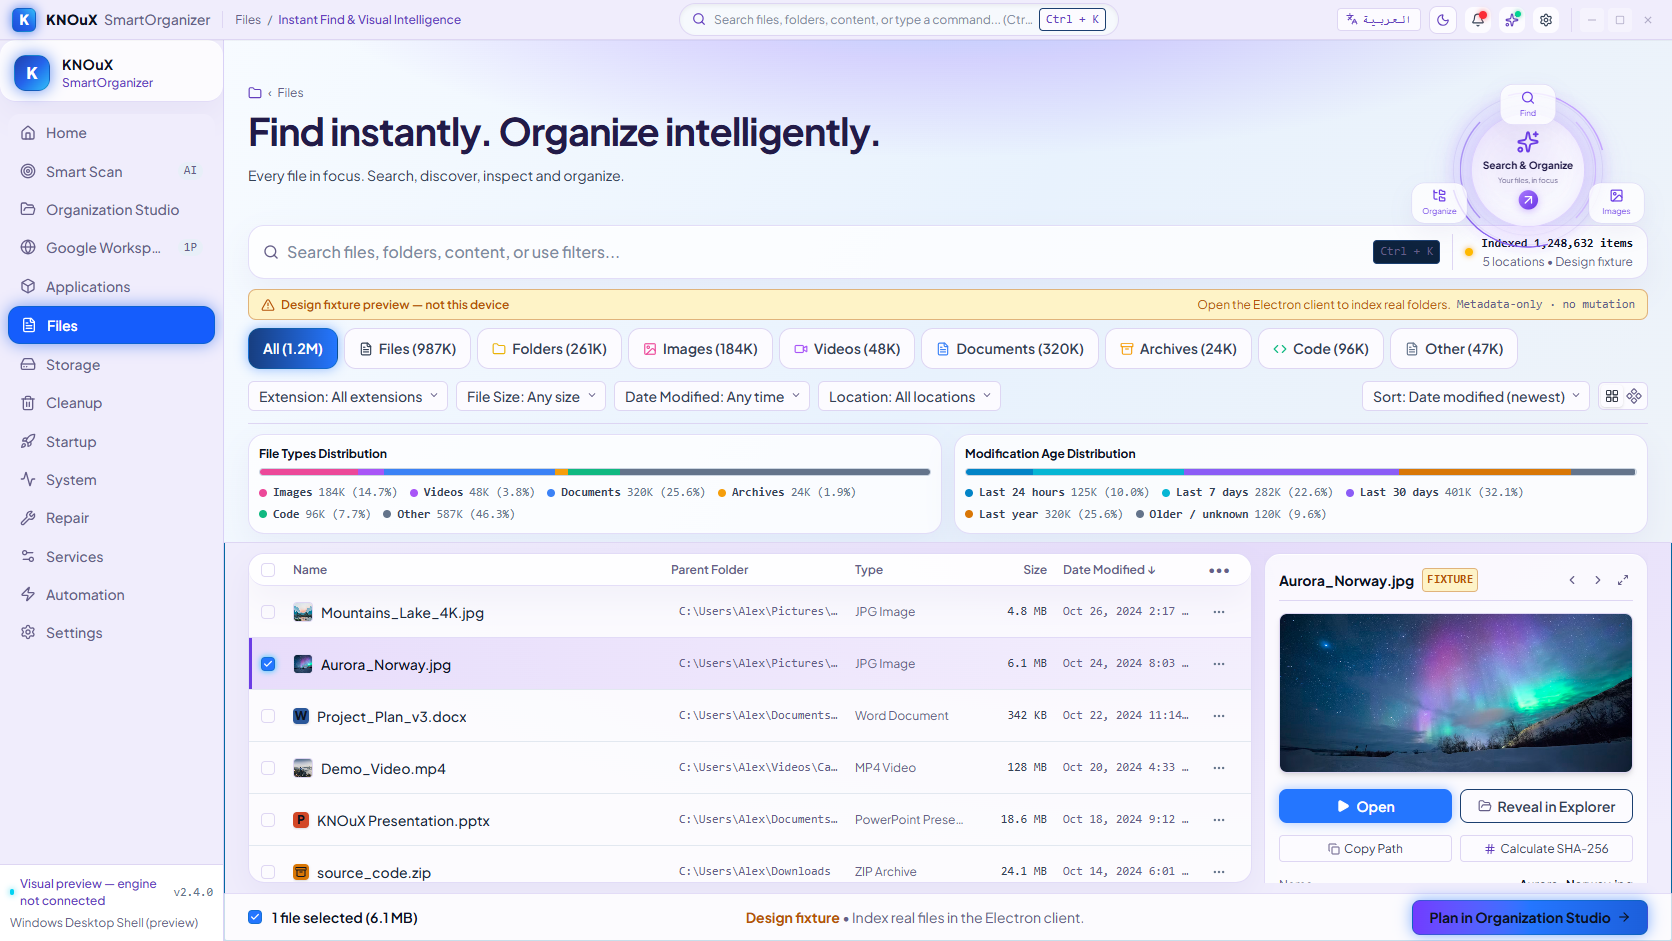
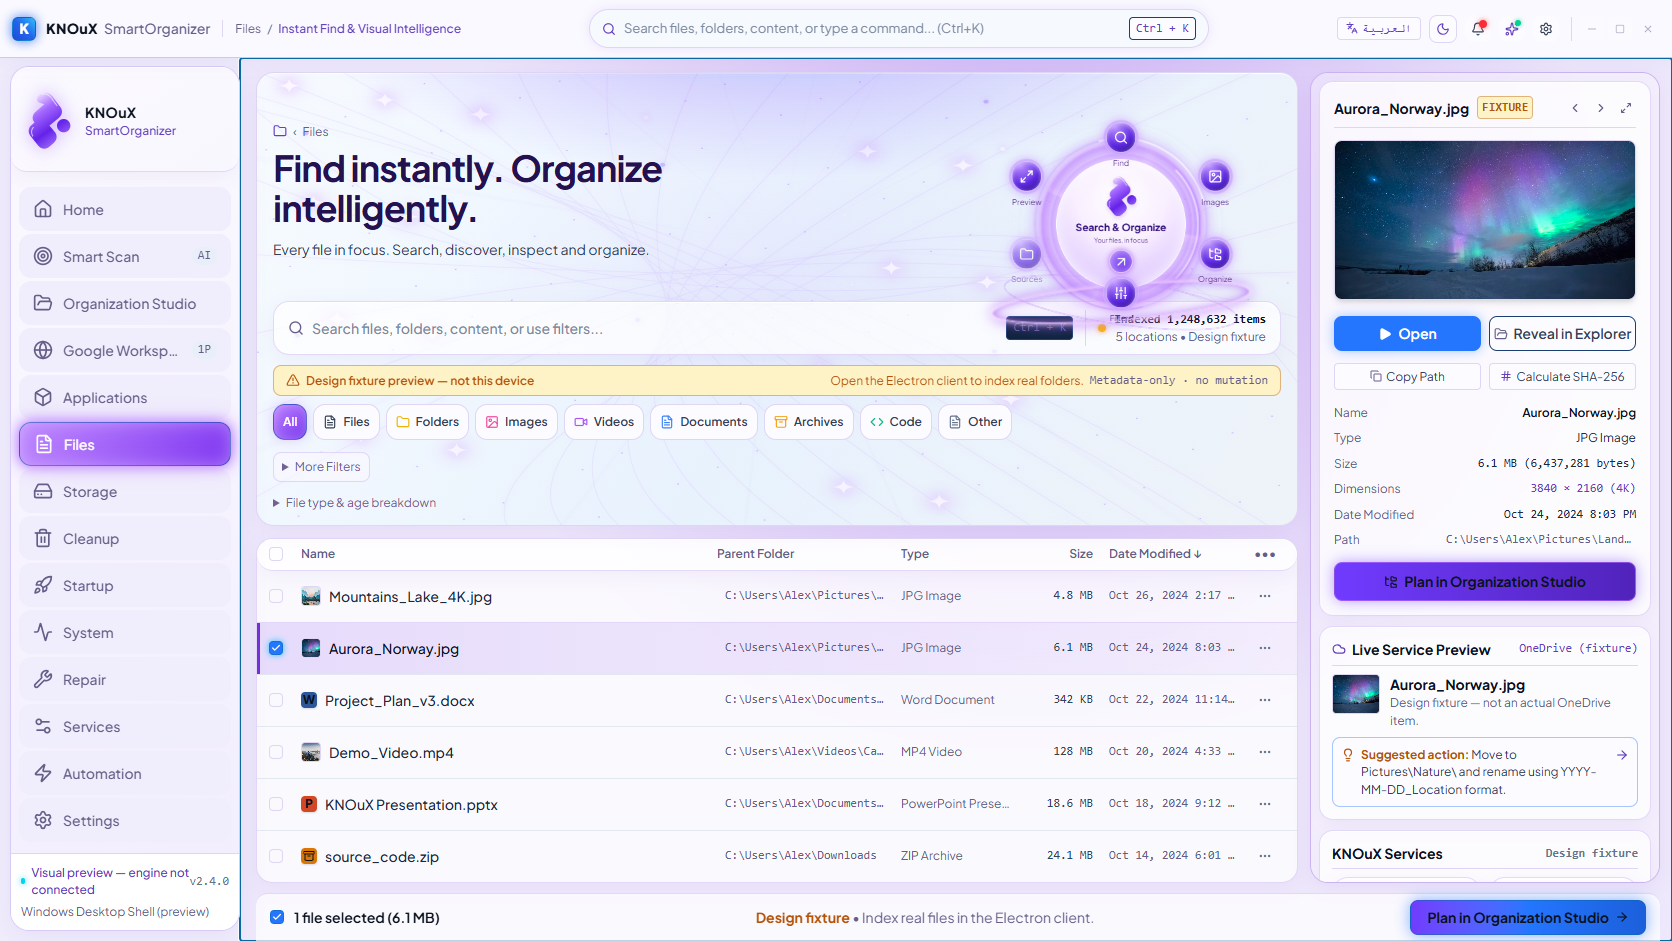
feat(visual): match files composition with luminous controls and pinned inspector

diff --git a/apps/gemini-ui/src/visual/reference-controls.css b/apps/gemini-ui/src/visual/reference-controls.css
@@ -1,0 +1,39 @@
+/* Shared dimensional controls, built from actual buttons and procedural light. */
+.visual-sprint[data-reference-shell='true'] {
+  --v-bg:#20175c; --v-panel:rgba(57,43,126,.65); --v-panel-soft:rgba(82,61,157,.35);
+  --v-line:#b79bea77; --v-ink:#fbf7ff; --v-muted:#d2c9ef; --v-accent:#d4b0ff;
+  --v-shadow:inset 0 1px 1px #ffffff35,inset 0 0 16px #b287ff12,0 5px 18px #16072b55,0 0 14px #b67aff25;
+}
+html[data-theme='light'] .visual-sprint[data-reference-shell='true'] { --v-bg:#eee8fc; --v-panel:#ffffffb8; --v-panel-soft:#faf6ff99; --v-line:#cdbcf38c; --v-ink:#24114f; --v-muted:#726293; --v-accent:#7131d8; --v-shadow:inset 0 1px #fff,0 5px 20px #8b69bd16; }
+.visual-sprint[data-reference-shell='true'] .knoux-titlebar { min-height:58px; background:linear-gradient(110deg,#28206fdd,#31207fbb) !important; border-color:#bd8eff66 !important; box-shadow:0 1px 12px #d4a8ff44; }
+.visual-sprint[data-reference-shell='true'] .knoux-titlebar > div:nth-child(2) { width:min(42vw,620px); min-height:39px; border-color:#b89be9aa; background:#7050c044; box-shadow:inset 0 0 12px #fff1,0 0 12px #a575e52b; }
+.visual-sprint[data-reference-shell='true'] .knoux-titlebar input { font-size:13px; }
+.visual-sprint[data-reference-shell='true'] aside[class*='w-56'] { width:230px; margin:8px 0 10px 10px; height:auto; border:1px solid #cda6ffbb !important; border-radius:19px; background:linear-gradient(135deg,#6a4ed077,#372b87b0) !important; box-shadow:inset 0 0 18px #b68aff22,0 0 14px #bd88ff77; backdrop-filter:blur(15px); }
+.visual-sprint[data-reference-shell='true'] aside nav button { min-height:44px; color:#f0eaff; font-weight:500; margin-block:3px; padding-inline:14px; }
+.visual-sprint[data-reference-shell='true'] aside nav button > svg { width:20px; height:20px; color:#f1eaff; }
+.visual-sprint[data-reference-shell='true'] aside nav button[aria-current='page'] { border:1px solid #efd4ff; background:linear-gradient(120deg,#bd86ff,#8138f1) !important; box-shadow:inset 0 0 15px #fff5,0 0 13px #b16aff,0 0 22px #c38dff66; }
+.visual-sprint[data-reference-shell='true'] aside > div > div:first-child { min-height:105px; background:transparent !important; border-color:#c6a1ff55; }
+.visual-sprint[data-reference-shell='true'] .knx-shell-lettermark { display:none; }.visual-sprint[data-reference-shell='true'] .knx-shell-ribbonmark { display:block; width:49px; height:64px; filter:drop-shadow(0 0 9px #b580ff99); }
+.visual-sprint[data-reference-shell='true'] .knx-sidebar-brand-emblem { background:transparent !important; border:0; box-shadow:none; width:48px; height:65px; }
+.visual-sprint .knx-orbit { width:360px; height:270px; }
+.visual-sprint .knx-orbit-track { width:226px; height:226px; left:67px; top:15px; border:2px solid #debdff; box-shadow:0 0 10px #efceff88,0 0 22px #b578ff99,inset 0 0 25px #b773ff; background:conic-gradient(from 18deg,#d3a4ff16,#fff5ff77 5deg,#9b54f714 12deg,#9955ff55 80deg,#f9e1ff 82deg,#8b48f422 88deg,#b779ff33 180deg,#fff0ff99 181deg,#a364fa22 185deg,#b97fff44 275deg,#fff5ff 277deg,#b77dff22 282deg); }
+.visual-sprint .knx-orbit-track::after { inset:-9px; border-color:#c69bff66; border-top-color:#fff; border-bottom-color:#d1a2fa; box-shadow:0 0 12px #b674ff44; }
+.visual-sprint .knx-orbit-track-inner { width:201px; height:201px; left:79.5px; top:27.5px; background:none; opacity:.8; }
+.visual-sprint .knx-orbit-core { left:90px; top:38px; width:180px; height:180px; z-index:3; background:radial-gradient(circle at 50% 30%,#fff 0,#f9efff 40%,#dfc8ff 77%,#a570e9 100%) !important; box-shadow:inset 0 0 22px #fff,0 0 22px #fff7ff88,0 0 42px #c78bff99; border-color:#fff; color:#32117c !important; gap:3px; transform:translateZ(0); }
+.visual-sprint .knx-orbit-core > svg { width:47px; height:60px; color:#793ce5; filter:drop-shadow(0 3px 3px #a87bc555); }
+.visual-sprint .knx-orbit-core { backface-visibility:hidden; will-change:transform; }.visual-sprint .knx-orbit-core > * { position:relative; transform:translateZ(0); }
+.visual-sprint .knx-orbit-core strong { font-size:14px; max-width:160px; }
+.visual-sprint .knx-orbit-core > span:not(.knx-orbit-arrow) { color:#6a4599; font-size:9px; }
+.visual-sprint .knx-orbit-arrow { width:32px; height:32px; margin-top:4px; border:1px solid #f0caff; box-shadow:inset 0 0 8px #fff6,0 0 9px #a159ef; }
+.visual-sprint .knx-orbit-tool { left:calc(50% + 151px * cos((var(--orbit-index) * 360deg / var(--orbit-count)) - 90deg)); top:calc(47% + 108px * sin((var(--orbit-index) * 360deg / var(--orbit-count)) - 90deg)); width:84px; min-height:72px; gap:6px; border:0; border-radius:0; background:transparent !important; box-shadow:none; color:var(--v-ink) !important; z-index:4; }
+.visual-sprint .knx-orbit-tool-icon { display:grid; place-items:center; width:42px; height:42px; border-radius:50%; border:1px solid #d4afff; color:#fff; background:radial-gradient(circle at 30% 15%,#b88cff,#5a24df 58%,#2d1779); box-shadow:inset 0 2px 6px #fff7ff88,0 0 0 3px #ae7eff44,0 0 0 4px #d9bdff88,0 0 18px #bc7aff; }
+.visual-sprint .knx-orbit-tool-icon > svg { filter:drop-shadow(0 0 3px #fff4); }.visual-sprint .knx-orbit-tool > span:last-child { font-size:11px; text-shadow:0 1px 3px #1f075b; }
+.visual-sprint .knx-orbit-tool.is-active { border:0; box-shadow:none; }.visual-sprint .knx-orbit-tool.is-active .knx-orbit-tool-icon { box-shadow:inset 0 2px 6px #fff7ff88,0 0 0 3px #ae7eff44,0 0 0 4px #fff,0 0 22px #ddafff; }
+.visual-sprint .knx-orbit-floor { position:absolute; left:0; right:0; bottom:8px; height:50px; border:2px solid #e8bfff; border-radius:50%; transform:rotate(-5deg); box-shadow:0 0 7px #fff,0 0 20px #b366f9,inset 0 0 14px #b779f8; background:radial-gradient(ellipse,#dca6ff44,transparent 65%); }
+.visual-sprint .knx-orbit-floor::before { content:''; position:absolute; inset:-8px 14px; border:1px solid #c393ff99; border-radius:50%; transform:rotate(13deg); }
+.visual-sprint .knx-orbit button:disabled { opacity:.65; }.visual-sprint .knx-orbit.is-running .knx-orbit-track::after { animation:knx-orbit-turn 10s linear infinite; }
+html[data-theme='light'] .visual-sprint[data-reference-shell='true'] .knoux-titlebar { background:#fbfaffdd !important; border-color:#d2c6f1 !important; box-shadow:0 3px 18px #7e60bc15; }
+html[data-theme='light'] .visual-sprint[data-reference-shell='true'] aside[class*='w-56'] { background:linear-gradient(145deg,#ffffffbb,#f2edffbb) !important; border-color:#d8cbf8 !important; box-shadow:0 4px 24px #7452be1a; }
+html[data-theme='light'] .visual-sprint[data-reference-shell='true'] aside nav button,html[data-theme='light'] .visual-sprint[data-reference-shell='true'] aside nav button > svg { color:#51428a; }
+html[data-theme='light'] .visual-sprint[data-reference-shell='true'] aside nav button[aria-current='page'],html[data-theme='light'] .visual-sprint[data-reference-shell='true'] aside nav button[aria-current='page'] > svg { color:white !important; }
+html[data-theme='light'] .visual-sprint .knx-orbit-tool > span:last-child { color:#5f348e; text-shadow:none; }

diff --git a/apps/gemini-ui/src/pages/FilesPage.tsx b/apps/gemini-ui/src/pages/FilesPage.tsx
@@ -67,6 +67,7 @@ import { useNavigation } from '../context/NavigationContext';
 import { KNOuXTitleBar, KNOuXSidebar } from '../components/shell/KNOuXShellComponents';
 import '../files.css';
 import { OrbitalControl } from '../visual/OrbitalControl';
+import { ReferenceAtmosphere } from '../visual/ReferenceAtmosphere';
 
 interface FilesPageProps {
   onNavigateSection?: (section: string) => void;
@@ -462,7 +463,7 @@ export function FilesPage({ onNavigateSection }: FilesPageProps) {
         />
 
         {/* Main Content Area */}
-        <main className="flex-1 flex flex-col min-w-0 bg-[#061226] relative overflow-hidden" data-testid="files-workspace">
+        <main className="flex-1 flex flex-col min-w-0 bg-[#061226] relative overflow-hidden" data-testid="files-workspace" style={{ '--files-inspector-width': activeService && workbenchMode === 'side' ? `${workbenchWidth}px` : '350px' } as React.CSSProperties}>
           {/* Toast feedback */}
           {toastMessage && (
             <div className="absolute top-3 right-6 z-50 px-3.5 py-2 rounded-lg bg-cyan-950/95 border border-cyan-400 text-cyan-200 text-xs shadow-xl flex items-center gap-2">
@@ -472,7 +473,8 @@ export function FilesPage({ onNavigateSection }: FilesPageProps) {
           )}
 
           {/* 1. Hero & Commanding Search Area */}
-          <div className="relative pt-3 pb-2 px-6 shrink-0 bg-gradient-to-b from-[#08172e] to-[#061226] border-b border-[#0f2444] select-none overflow-hidden">
+          <div className="knx-files-header relative pt-3 pb-2 px-6 shrink-0 bg-gradient-to-b from-[#08172e] to-[#061226] border-b border-[#0f2444] select-none overflow-hidden">
+            <ReferenceAtmosphere />
             <div className="absolute inset-0 files-hero-nebula pointer-events-none" />
 
             {/* Breadcrumb & Title */}
@@ -502,6 +504,9 @@ export function FilesPage({ onNavigateSection }: FilesPageProps) {
                     { id: 'search', label: locale === 'en' ? 'Find' : 'بحث', icon: Search, onClick: () => document.querySelector<HTMLInputElement>('[data-testid="files-search"]')?.focus() },
                     { id: 'images', label: locale === 'en' ? 'Images' : 'الصور', icon: ImageIcon, onClick: () => setActiveCategory('images') },
                     { id: 'plan', label: locale === 'en' ? 'Organize' : 'تنظيم', icon: FolderTree, onClick: handleOpenStudio },
+                    { id: 'filters', label: locale === 'en' ? 'Filters' : 'الفلاتر', icon: Sliders, onClick: () => { const panel = document.querySelector<HTMLDetailsElement>('.knx-files-advanced'); if (panel) panel.open = true; document.querySelector<HTMLSelectElement>('[data-testid="files-extension"]')?.focus(); } },
+                    { id: 'sources', label: locale === 'en' ? 'Sources' : 'المصادر', icon: Folder, onClick: () => void filesNative.addSource(), disabled: !filesNative.available },
+                    { id: 'preview', label: locale === 'en' ? 'Preview' : 'المعاينة', icon: Maximize2, onClick: () => setPreviewExpanded(p => !p) },
                   ]} />
               </div>
             </div>
@@ -572,6 +577,7 @@ export function FilesPage({ onNavigateSection }: FilesPageProps) {
                 return (
                   <button
                     key={tab.id}
+                    title={tab.label}
                     data-testid={`files-category-${tab.id}`}
                     onClick={() => setActiveCategory(tab.id)}
                     className={`px-3 py-1.5 rounded-lg text-xs font-semibold flex items-center gap-1.5 transition-all cursor-pointer whitespace-nowrap ${
@@ -585,13 +591,14 @@ export function FilesPage({ onNavigateSection }: FilesPageProps) {
                         <Icon className="w-3.5 h-3.5" />
                       </span>
                     )}
-                    <span>{tab.label}</span>
+                    <span>{tab.label.replace(/\s*\([^)]*\)/g, '')}</span>
                   </button>
                 );
               })}
             </div>
 
             {/* Sub-Filters Menus (Extension, Size, Date, Location, Sort) */}
+            <details className="knx-files-advanced"><summary>{locale === 'en' ? 'More Filters' : 'فلاتر إضافية'}</summary>
             <div className="flex flex-wrap items-center justify-between gap-2 text-xs">
               <div className="flex flex-wrap items-center gap-2">
                 {/* Extension */}
@@ -728,6 +735,8 @@ export function FilesPage({ onNavigateSection }: FilesPageProps) {
             </div>
 
             {/* 2. Data Composition Band (Two Horizontal Distribution Gauges) */}
+            </details>
+            <details className="knx-files-distribution"><summary>{locale === 'en' ? 'File type & age breakdown' : 'تفاصيل أنواع الملفات وأعمارها'}</summary>
             <div className="grid grid-cols-1 lg:grid-cols-2 gap-3 mt-3 pt-2.5 border-t border-[#0e223d]">
               {/* Distribution 1: File Types */}
               <div className="bg-[#07152b] p-2.5 rounded-lg border border-[#122b50]">
@@ -785,8 +794,8 @@ export function FilesPage({ onNavigateSection }: FilesPageProps) {
                 </div>
               </div>
             </div>
+            </details>
           </div>
-
           {/* 3. Main Center Split: Table Register & Right Detail Inspector */}
           <div className="knx-files-split flex-1 flex gap-3 px-6 py-2.5 min-h-0 overflow-hidden">
             {/* Left-Center Results Table */}
@@ -992,7 +1001,7 @@ export function FilesPage({ onNavigateSection }: FilesPageProps) {
 
             {/* Right Detail Panel / pinned service workbench */}
             <div
-              className={`shrink-0 flex flex-col gap-2.5 select-none overflow-y-auto files-scrollbar ${activeService && workbenchMode === 'side' ? '' : 'w-80 xl:w-96'}`}
+              className={`knx-files-inspector shrink-0 flex flex-col gap-2.5 select-none overflow-y-auto files-scrollbar ${activeService && workbenchMode === 'side' ? '' : 'w-80 xl:w-96'}`}
               style={activeService && workbenchMode === 'side' ? { width: `${workbenchWidth}px` } : undefined}
             >
               {activeService && workbenchMode === 'side' ? (

diff --git a/apps/gemini-ui/src/visual/files-reference.css b/apps/gemini-ui/src/visual/files-reference.css
@@ -1,0 +1,26 @@
+.visual-sprint[data-visual-section='files'] [data-testid='files-workspace'] { display:grid; grid-template-columns:minmax(0,1fr) var(--files-inspector-width,350px); grid-template-rows:auto minmax(0,1fr) auto; column-gap:12px; padding:14px 12px 0 16px; background:radial-gradient(ellipse at 55% 20%,#9753ed66,transparent 52%),var(--v-bg) !important; }
+.visual-sprint[data-visual-section='files'] .knx-files-header { grid-column:1; grid-row:1; padding:16px 16px 10px; border:1px solid var(--v-line); border-radius:18px; margin-bottom:12px; background:linear-gradient(140deg,#7550d544,#35227477) !important; box-shadow:var(--v-shadow); isolation:isolate; }
+.visual-sprint[data-visual-section='files'] .knx-files-header .knx-reference-atmosphere { opacity:.55; }
+.visual-sprint[data-visual-section='files'] .knx-files-heading { min-height:204px; gap:10px; }
+.visual-sprint[data-visual-section='files'] .knx-files-heading > div:first-child { max-width:53%; }
+.visual-sprint[data-visual-section='files'] h1 { font-size:36px; margin-bottom:12px; line-height:1.1; }
+.visual-sprint[data-visual-section='files'] .knx-files-orbit { width:340px; height:195px; flex-shrink:0; }
+.visual-sprint[data-visual-section='files'] .knx-files-orbit .knx-orbit { transform:scale(.72); margin-top:0; }
+.visual-sprint[data-visual-section='files'] .knx-files-advanced { margin-top:8px; color:var(--v-muted); font-size:12px; }
+.visual-sprint[data-visual-section='files'] .knx-files-advanced summary { cursor:pointer; padding:5px 8px; border:1px solid var(--v-line); border-radius:8px; width:max-content; background:var(--v-panel-soft); }
+.visual-sprint[data-visual-section='files'] .knx-files-advanced > div { padding-top:8px; }
+.visual-sprint[data-visual-section='files'] [data-testid^='files-category-'] { font-size:12px; padding:8px 9px; border-color:var(--v-line); background:var(--v-panel-soft); }
+.visual-sprint[data-visual-section='files'] [data-testid^='files-category-'][class*='bg-gradient-to-r'] { background:linear-gradient(135deg,#bd81ff,#7634ed) !important; color:#fff !important; box-shadow:inset 0 0 10px #fff4,0 0 14px #ae74f955; }
+.visual-sprint[data-visual-section='files'] [data-testid='files-search'] { min-height:34px; font-size:14px; }
+.visual-sprint[data-visual-section='files'] .knx-files-distribution { font-size:12px; color:var(--v-muted); margin-top:9px; }
+.visual-sprint[data-visual-section='files'] .knx-files-distribution summary { cursor:pointer; padding:3px 0; }
+.visual-sprint[data-visual-section='files'] .knx-files-split { display:contents; }
+.visual-sprint[data-visual-section='files'] .knx-files-split > div:first-child { grid-column:1; grid-row:2; min-height:180px; margin-bottom:10px; }
+.visual-sprint[data-visual-section='files'] .knx-files-inspector { grid-column:2; grid-row:1/span 2; width:100% !important; min-height:0; padding:8px; margin-bottom:10px; border:1px solid #d1aaff; border-radius:18px; background:linear-gradient(135deg,#7154c133,#2d2263aa); box-shadow:0 0 0 3px #ad70f022,0 0 15px #b781ff66; }
+.visual-sprint[data-visual-section='files'] .knx-files-inspector > div { background:var(--v-panel) !important; border-color:var(--v-line); border-radius:14px; }
+.visual-sprint[data-visual-section='files'] .knx-files-inspector > div:first-child { padding:14px; }
+.visual-sprint[data-visual-section='files'] [data-testid='files-footer'] { grid-column:1/-1; grid-row:3; border-radius:12px 12px 0 0; padding-inline:14px; }
+.visual-sprint[data-visual-section='files'] .knx-files-tools { grid-template-columns:repeat(2,minmax(0,1fr)); }
+html[data-theme='light'] .visual-sprint[data-visual-section='files'] .knx-files-header { background:linear-gradient(140deg,#ffffffb0,#f1e9fc88) !important; }
+html[data-theme='light'] .visual-sprint[data-visual-section='files'] .knx-files-inspector { background:#faf6ff77; border-color:#cab3ef; box-shadow:0 4px 18px #9b77c422; }
+@media (max-width:1250px) { .visual-sprint[data-visual-section='files'] [data-testid='files-workspace'] { display:flex; padding:12px; overflow-y:auto; }.visual-sprint[data-visual-section='files'] .knx-files-split { display:flex; flex-direction:column; overflow:visible; }.visual-sprint[data-visual-section='files'] .knx-files-split > div:first-child { min-height:360px; flex-shrink:0; }.visual-sprint[data-visual-section='files'] .knx-files-inspector { max-height:620px; flex-shrink:0; }.visual-sprint[data-visual-section='files'] .knx-files-heading { min-height:160px; }.visual-sprint[data-visual-section='files'] .knx-files-heading > div:first-child { max-width:100%; } }

diff --git a/apps/gemini-ui/src/visual/OrbitalControl.tsx b/apps/gemini-ui/src/visual/OrbitalControl.tsx
@@ -1,5 +1,6 @@
 import React from 'react';
 import { ArrowUpRight, Sparkles, type LucideIcon } from 'lucide-react';
+import { KnouxMark } from './ReferenceAtmosphere';
 
 export interface OrbitTool { id: string; label: string; icon: LucideIcon; onClick: () => void; active?: boolean; disabled?: boolean }
 
@@ -10,15 +11,16 @@ export function OrbitalControl({ title, subtitle, tools, onActivate, disabled = 
   return <div className={`knx-orbit ${running ? 'is-running' : ''}`}>
     <div className="knx-orbit-track" aria-hidden="true" />
     <div className="knx-orbit-track knx-orbit-track-inner" aria-hidden="true" />
+    <div className="knx-orbit-floor" aria-hidden="true" />
     <button className="knx-orbit-core" onClick={onActivate} disabled={disabled}>
-      <Sparkles size={32} aria-hidden="true" /><strong>{title}</strong><span>{subtitle}</span>
+      <KnouxMark /><strong>{title}</strong><span>{subtitle}</span>
       <span className="knx-orbit-arrow"><ArrowUpRight size={21} /></span>
     </button>
     <nav className="knx-orbit-tools" aria-label={title}>
       {tools.map((tool, index) => <button key={tool.id} type="button" className={`knx-orbit-tool ${tool.active ? 'is-active' : ''}`}
         style={{ '--orbit-index': index, '--orbit-count': tools.length } as React.CSSProperties}
         onClick={tool.onClick} disabled={tool.disabled} aria-current={tool.active ? 'step' : undefined}>
-        <tool.icon size={20} aria-hidden="true" /><span>{tool.label}</span>
+        <span className="knx-orbit-tool-icon"><tool.icon size={20} aria-hidden="true" /></span><span>{tool.label}</span>
       </button>)}
     </nav>
   </div>;

diff --git a/apps/gemini-ui/src/App.tsx b/apps/gemini-ui/src/App.tsx
@@ -44,6 +44,8 @@ import './visual/files-visual.css';
 import './visual/scan-visual.css';
 import './visual/apps-visual.css';
 import './visual/studio-reference.css';
+import './visual/reference-controls.css';
+import './visual/files-reference.css';
 import { CinematicEntry } from './features/cinematic-entry/CinematicEntry';
 
 export type { AppSection } from './context/NavigationContext';
@@ -115,7 +117,7 @@ function AppContent() {
 
   return (
     <>
-      <div className="visual-sprint" data-visual-section={currentSection}>{renderActiveWorkspace()}</div>
+      <div className="visual-sprint" data-visual-section={currentSection} data-reference-shell={['studio', 'files'].includes(currentSection)}>{renderActiveWorkspace()}</div>
       <KNOuXAssistantChat currentSection={currentSection} locale={isAr ? 'ar' : 'en'} />
       <ApiKeySetupModal
         isOpen={isApiKeyModalOpen}
